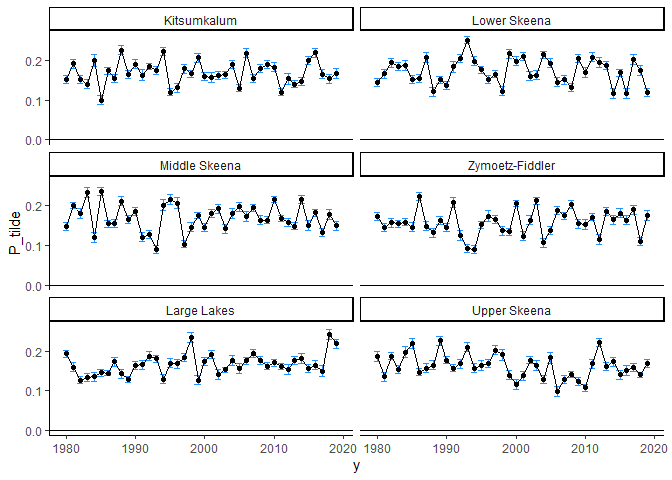
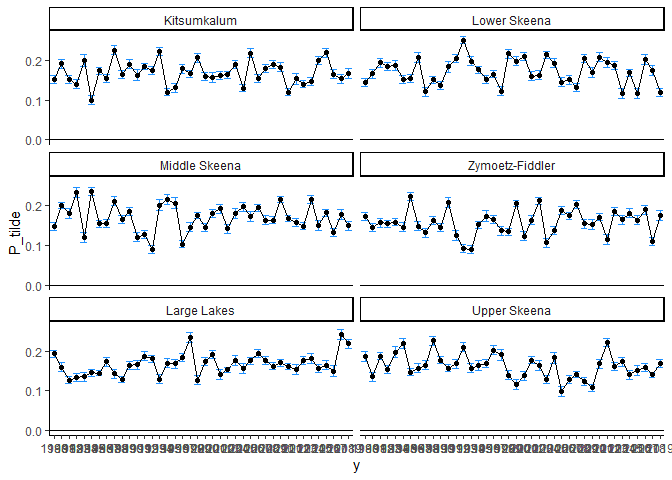
Make get-P-tilde result dataframe year an integer, update readme

diff --git a/README.md b/README.md
@@ -38,7 +38,6 @@ library(ggplot2)
 d <- make_P_G()
 P_tilde <- get_P_tilde(P = d$P, sigma_P = d$sigma_P, G = d$G)
 dt <- P_tilde$df_merged
-dt$y <- as.integer(as.character(dt$y))
 
 ggplot(dt, aes(y = P_tilde, x = y, group = i)) +
   geom_errorbar( aes( ymin = P_tilde - sigma_P_tilde, ymax = P_tilde + sigma_P_tilde ), colour="dodgerblue") +
